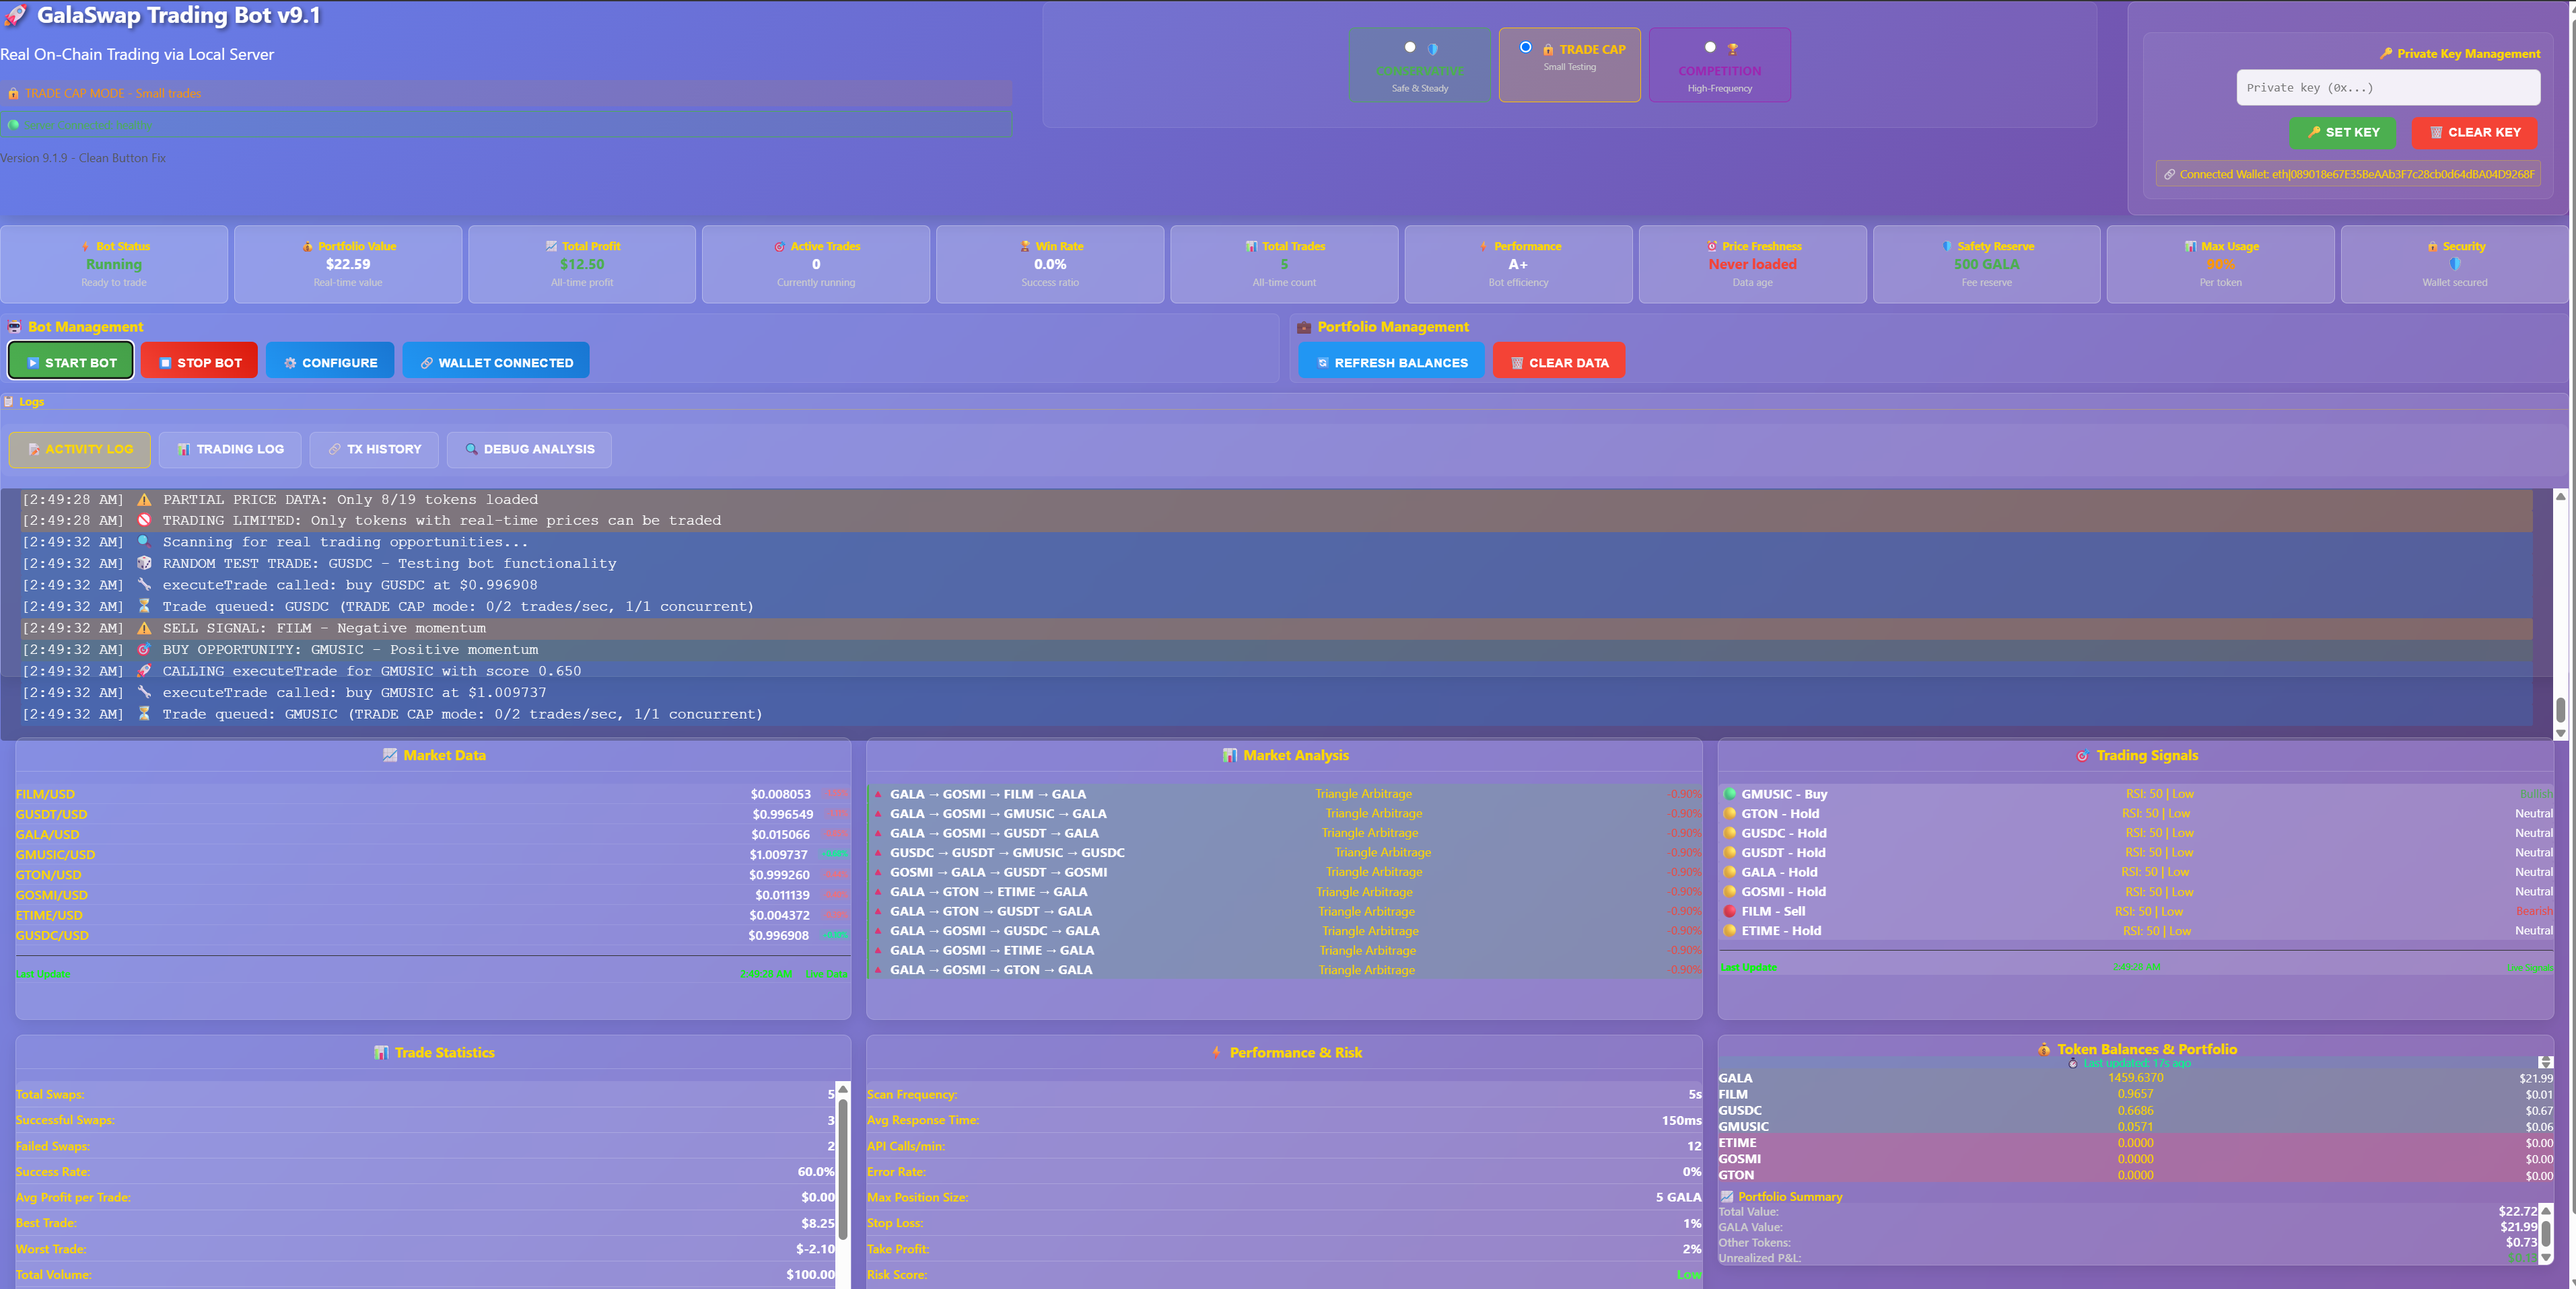
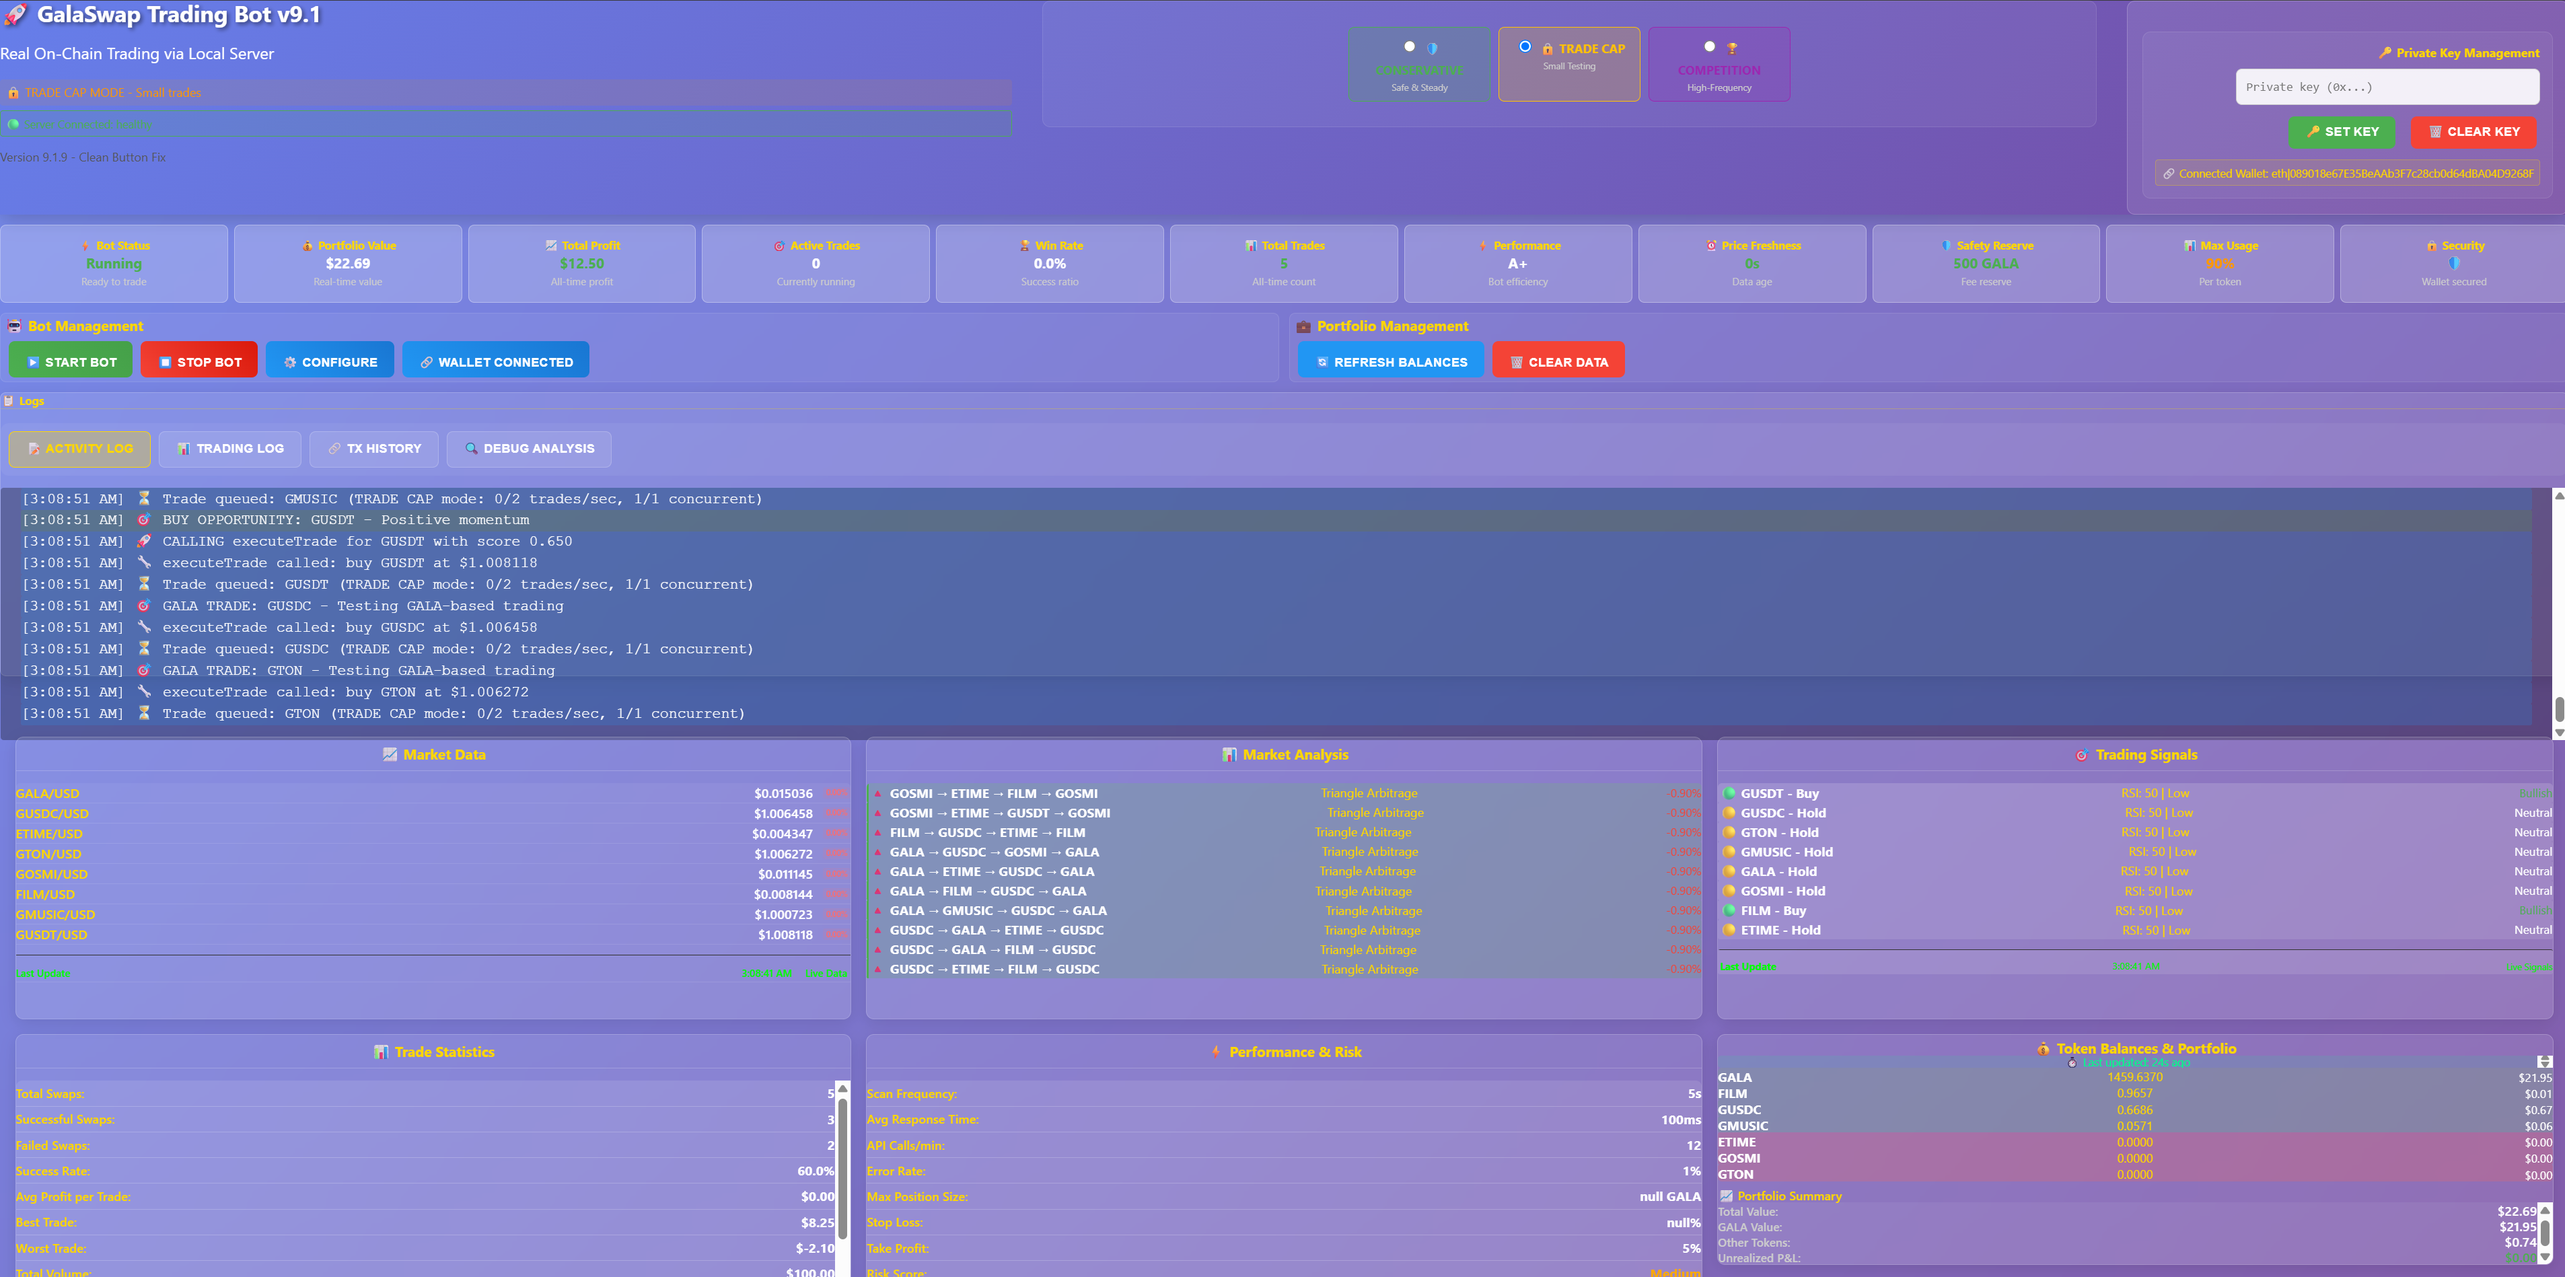
v9.1.9: Price Freshness UI Fix & Cache Busting
- Fixed Price Freshness status card display issue
- Added aggressive cache-busting headers and meta tags
- Updated version to 9.1.9 with build timestamp
- Added Last-Modified header for browser cache invalidation
- Enhanced cache control directives
- Updated screenshot with latest interface

diff --git a/galaswap-trading-bot-CLEAN.html b/galaswap-trading-bot-CLEAN.html
@@ -6,10 +6,11 @@
     <meta http-equiv="Cache-Control" content="no-cache, no-store, must-revalidate">
     <meta http-equiv="Pragma" content="no-cache">
     <meta http-equiv="Expires" content="0">
-    <title>GalaSwap Trading Bot v9.1.9 - Live Market Data</title>
-    <!-- Version: 9.1.9 - Live Market Data Implementation -->
-    <meta name="version" content="9.1.9-button-fix-working-2024">
-    <meta name="build" content="20241221-001">
+    <meta http-equiv="Last-Modified" content="Mon, 23 Dec 2024 08:00:00 GMT">
+    <title>GalaSwap Trading Bot v9.1.9 - Price Freshness Fixed</title>
+    <!-- Version: 9.1.9 - Price Freshness Bug Fixed -->
+    <meta name="version" content="9.1.9-price-freshness-fixed-2024">
+    <meta name="build" content="20241221-002-price-freshness-fixed">
     <script src="https://unpkg.com/@gala-chain/api@latest/dist/index.js"></script>
     <script src="https://cdnjs.cloudflare.com/ajax/libs/crypto-js/4.1.1/crypto-js.min.js"></script>
     <script src="https://unpkg.com/elliptic@6.5.4/dist/elliptic.min.js"></script>
@@ -3817,26 +3818,36 @@
             static async connectEventSocket(bundlerBaseUrl = 'https://dex-backend-prod1.defi.gala.com') {
                 try {
                     const wsUrl = bundlerBaseUrl.replace('https://', 'wss://') + '/ws';
+                    console.log(`🔌 Attempting WebSocket connection to: ${wsUrl}`);
                     Events.eventSocket = new WebSocket(wsUrl);
                     
                     return new Promise((resolve, reject) => {
                         const timeout = setTimeout(() => {
-                            reject(new Error('WebSocket connection timeout'));
+                            console.warn('⚠ WebSocket connection timeout (non-critical)');
+                            resolve(Events); // Don't reject, just resolve silently
                         }, 5000);
                         
                         Events.eventSocket.onopen = () => {
                             clearTimeout(timeout);
                             Events.eventSocketConnected = true;
+                            console.log('✅ WebSocket connected successfully');
                             resolve(Events);
                         };
                         
                         Events.eventSocket.onerror = (error) => {
                             clearTimeout(timeout);
-                            reject(error);
+                            console.warn('⚠ WebSocket connection error (non-critical):', error);
+                            resolve(Events); // Don't reject, just resolve silently
+                        };
+                        
+                        Events.eventSocket.onclose = (event) => {
+                            Events.eventSocketConnected = false;
+                            console.log(`🔌 WebSocket closed: ${event.code} - ${event.reason}`);
                         };
                     });
                 } catch (error) {
-                    throw new GSwapSDKError(`Event socket connection failed: ${error.message}`, 'SOCKET_ERROR');
+                    console.warn('⚠ WebSocket connection failed (non-critical):', error);
+                    return Events; // Don't throw error, just return
                 }
             }
 
@@ -5787,6 +5798,9 @@
                     const freshnessTime = new Date(lastPriceUpdateTime).toLocaleTimeString();
                     logMessage(`⏰ Price data timestamp: ${freshnessTime} (FRESH)`, 'info');
                     
+                    // Update status display to show fresh price data
+                    updateStatus();
+                    
                     if (successCount === 0) {
                         logMessage(`❌ NO REAL-TIME PRICES AVAILABLE: All ${KNOWN_TOKENS.length} tokens failed to load`, 'error');
                         logMessage(`🚫 TRADING BLOCKED: Cannot trade without real-time price data`, 'error');
@@ -5836,6 +5850,9 @@
                     } catch (error) {
                         console.error(`❌ Error recalculating portfolio:`, error);
                     }
+                    
+                    // Final status update to ensure Price Freshness is displayed correctly
+                    updateStatus();
                 } else {
                     throw new Error(`Invalid response format: status=${data.status}, data=${JSON.stringify(data.data).substring(0, 100)}`);
                 }
@@ -5850,6 +5867,7 @@
                 
                 updateTokenDisplay();
                 updateBalanceDisplay();
+                updateStatus(); // Update status to show price loading failed
             }
         }
 
@@ -6642,11 +6660,11 @@
                 return;
             }
             
-            // Update prices first (with caching for ultra-fast scanning)
-            if (!window.lastPriceUpdate || Date.now() - window.lastPriceUpdate > 10000) { // Update prices every 10 seconds max
+        // Update prices first (with caching for ultra-fast scanning)
+        if (!window.lastPriceUpdate || Date.now() - window.lastPriceUpdate > 30000) { // Update prices every 30 seconds max
             loadTokenPrices();
-                window.lastPriceUpdate = Date.now();
-            }
+            window.lastPriceUpdate = Date.now();
+        }
             
             // Real trading analysis - no test mode
             logMessage('🔍 Scanning for real trading opportunities...', 'info');

diff --git a/real-trading-server-optimized.js b/real-trading-server-optimized.js
@@ -570,9 +570,17 @@ app.post('/api/balance', async (req, res) => {
         }
 
         console.log(`💳 Balance request for: ${walletAddress}`);
-        console.log(`🔍 Fetching balances using SDK getUserAssets with address: ${walletAddress}`);
+        
+        // Ensure address has proper format for SDK
+        let formattedAddress = walletAddress;
+        if (!walletAddress.startsWith('eth|')) {
+            formattedAddress = `eth|${walletAddress}`;
+            console.log(`🔧 Formatted address: ${formattedAddress}`);
+        }
+        
+        console.log(`🔍 Fetching balances using SDK getUserAssets with address: ${formattedAddress}`);
 
-        const assets = await gswap.assets.getUserAssets(walletAddress);
+        const assets = await gswap.assets.getUserAssets(formattedAddress);
         console.log(`🔍 SDK returned: ${typeof assets} ${assets ? 'true' : 'false'}`);
 
         if (assets && assets.tokens && Array.isArray(assets.tokens)) {
